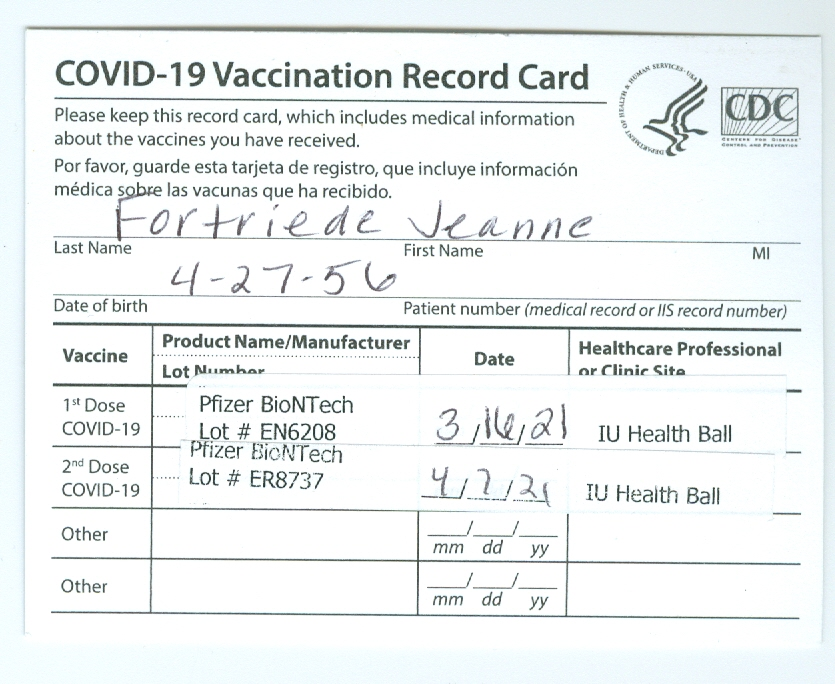
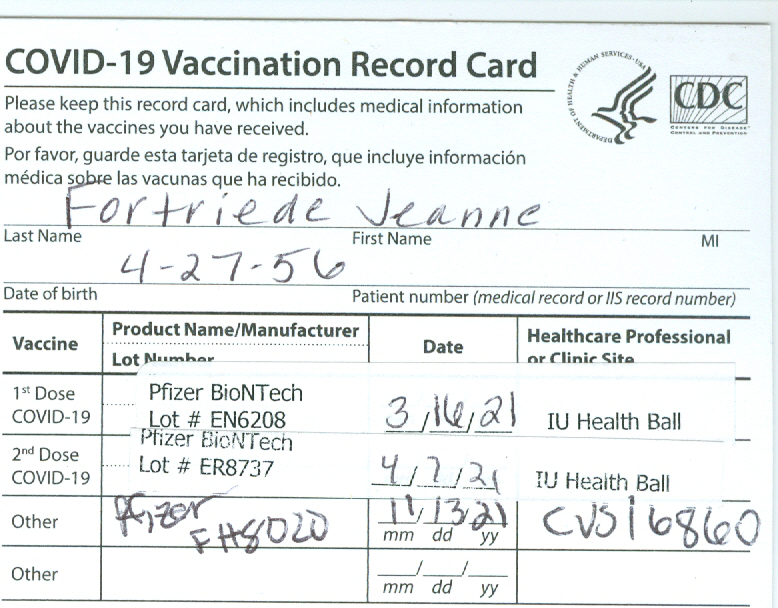
Updated Jeanne Covid Records

diff --git a/Medical/JMF.html b/Medical/JMF.html
@@ -85,6 +85,7 @@
      <li>Covid
      <li>Pfizer Lot # EN6208 3/16/2021
      <li>Pfizer Lot # ER8737 4/7/2021
+     <li>Pfizer Log # FH8020 11/13/21
     </ul>
     <ul>
      <li>Flu
